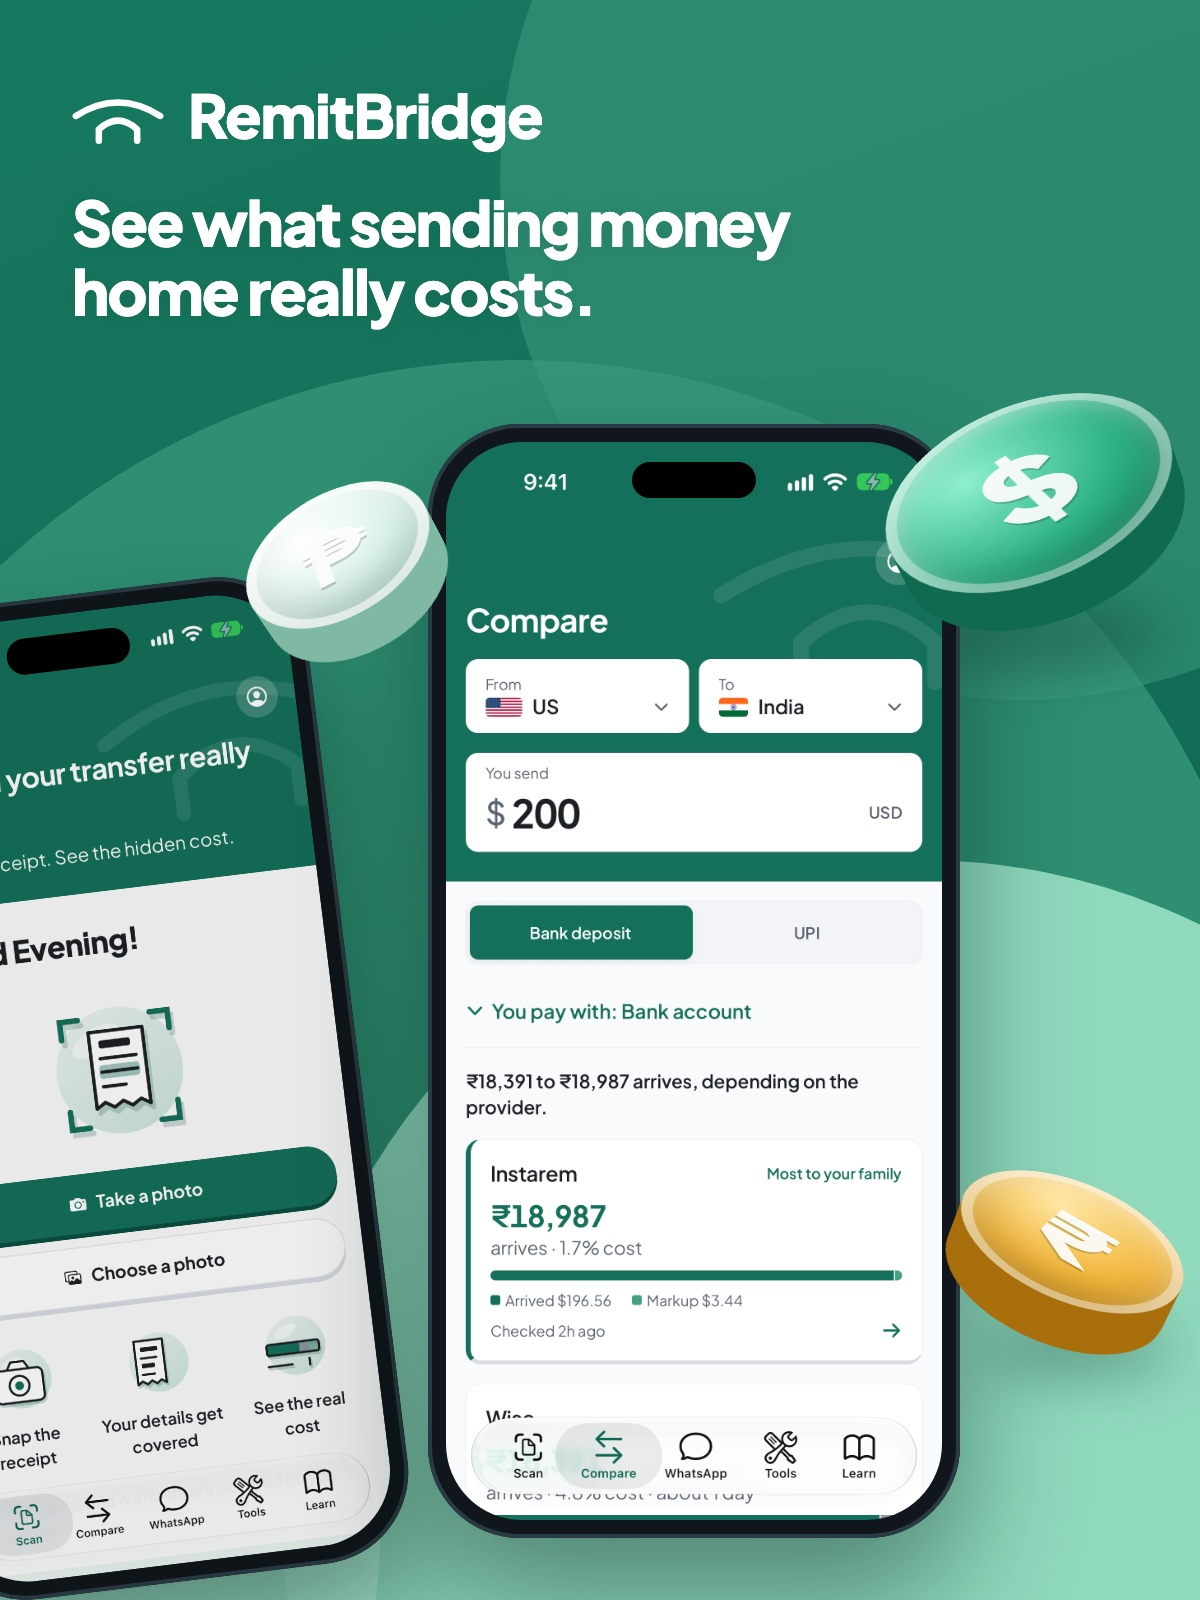
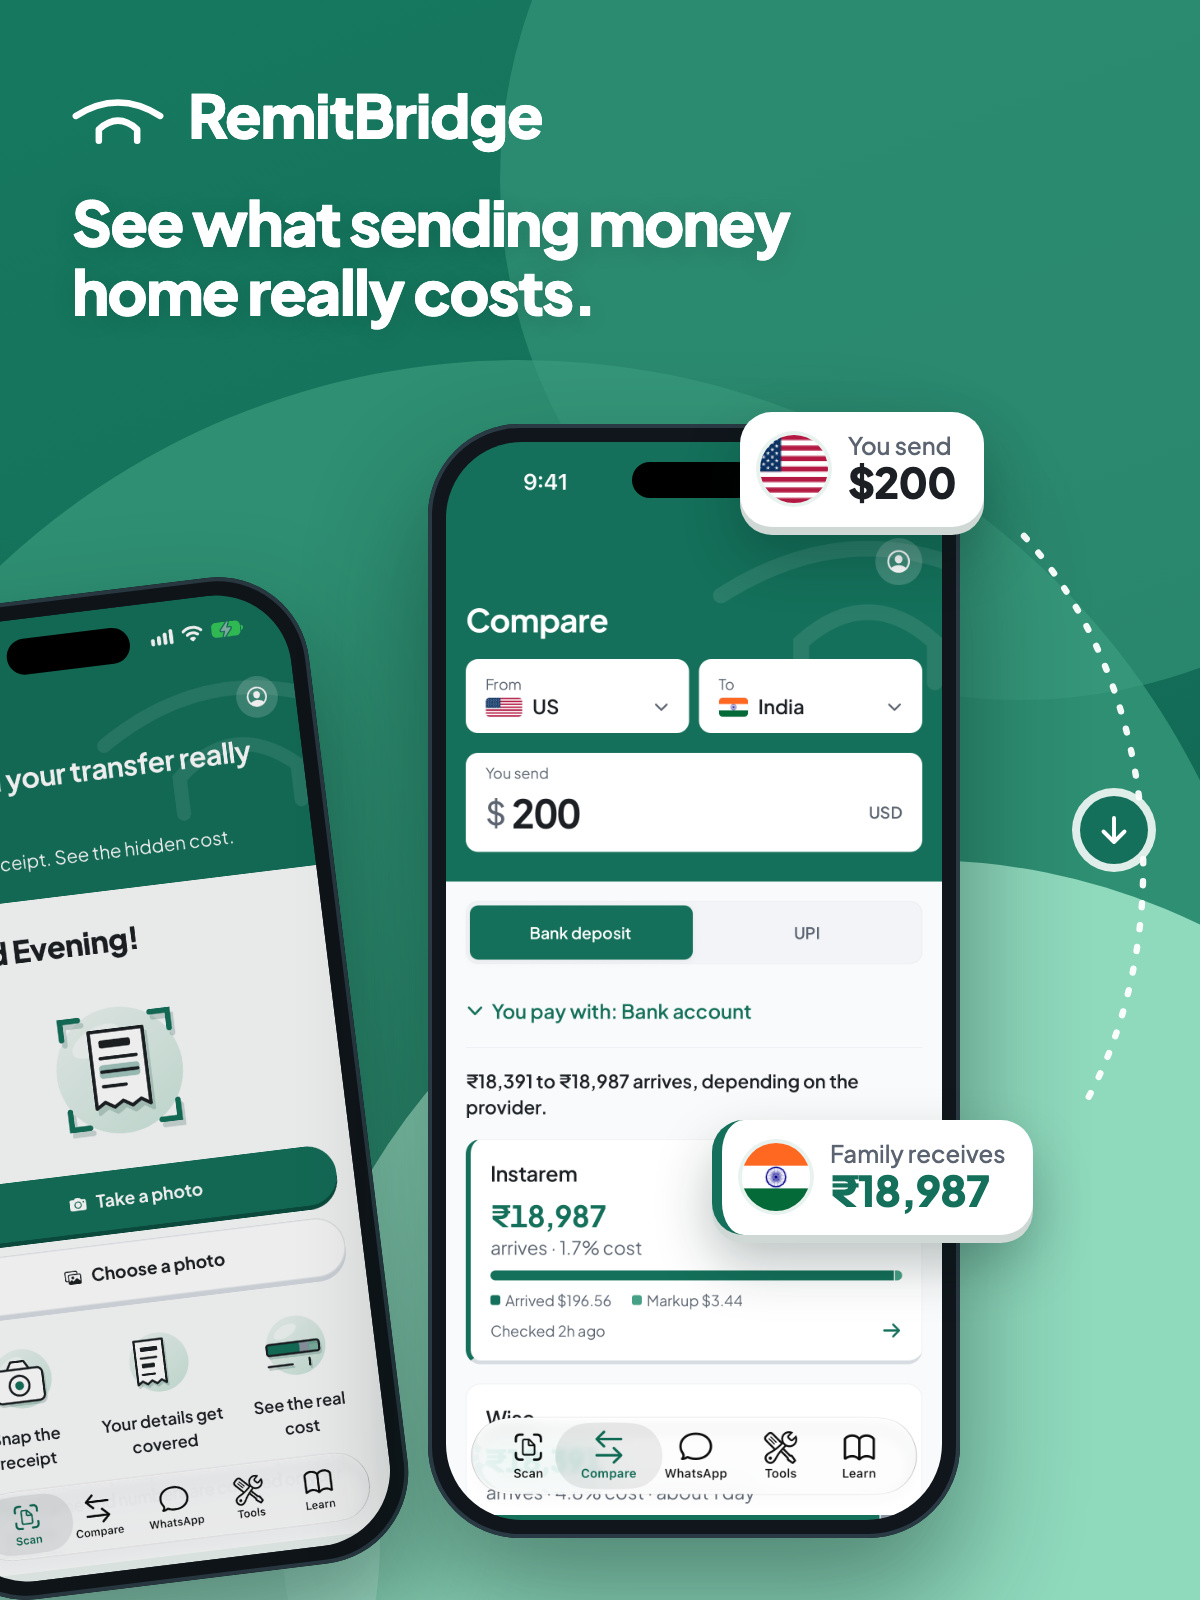
CAC cover: a send-and-receive route instead of coins, and sharper
Angad liked the background and screenshots but wanted the coins replaced with something
about remittances, and found it a little blurry. The coins are gone; a dashed route now runs
from a "You send $200" card with the US flag to a "Family receives ₹18,987" card with
India's, the same transfer the Compare screenshot shows. The 600x800 file is now rendered
at that size directly, so text is drawn on whole pixels, instead of being shrunk from
1200x1600, and both JPEGs are saved at quality 95 without chroma subsampling, which had
softened the green-on-white edges.

diff --git a/docs/AI_USAGE.md b/docs/AI_USAGE.md
@@ -632,7 +632,7 @@ privacy policy match what the code does. **What Claude created or changed:**
 - Made the CAC cover photo at Angad's request, modelled on a reference image he chose: a
   600x800 JPEG (and a 1200x1600 copy) of two phone frames showing the app's real Compare and
   Scan screenshots (taken earlier from the simulator build) on the brand's green, with drawn
-  3D coins ($, ₹, ₱), the logo and one headline. Built as an HTML page and rendered with
+  a dashed route from a "You send $200" card (US flag) to a "Family receives ₹18,987" card (India flag), the logo and one headline; the first version's 3D coins were dropped at Angad's ask. Built as an HTML page and rendered with
   headless Chrome; the page itself isn't kept.
 - Found and fixed the bug that kept Android sign-ins from persisting, made WhatsApp linking
   a real button, built the opt-in newsletter (D169), marked Hindi reviewed (D170) and made
